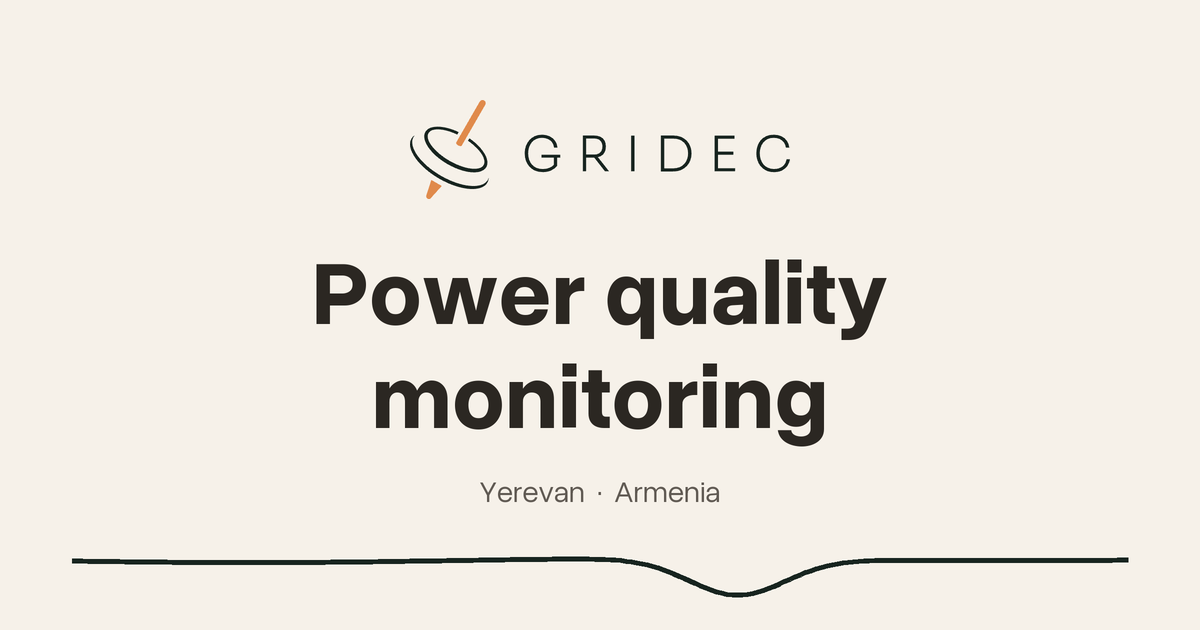
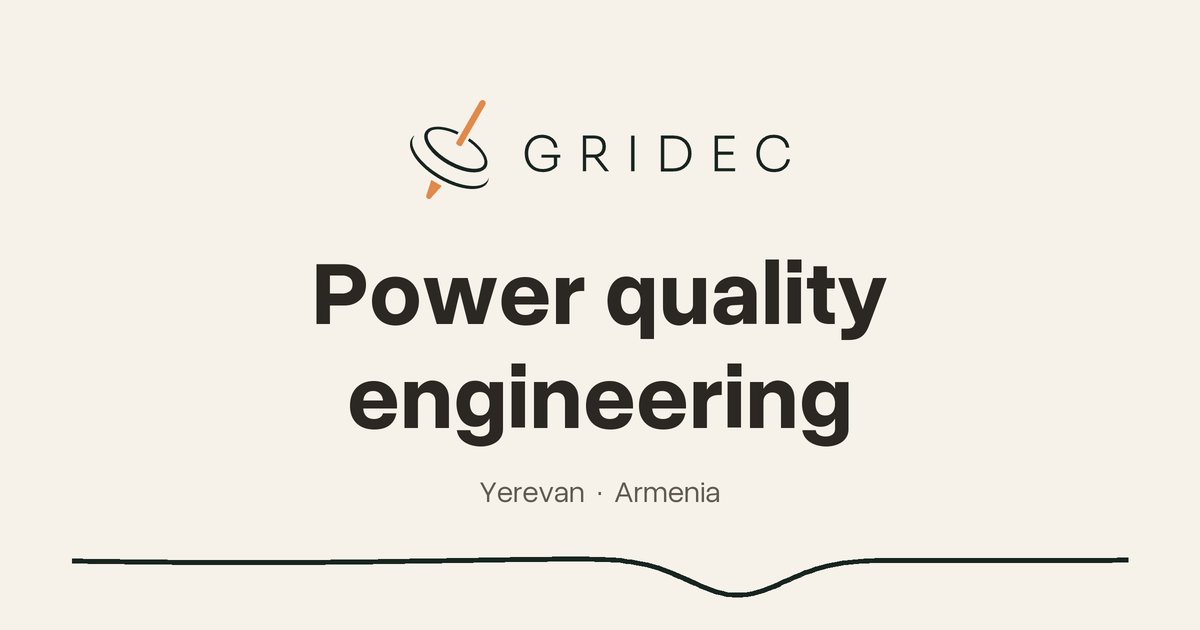
Заголовок вкладки и карточка ссылки: EN «Power Quality Engineering», HY «Էլեկտրաէներգիայի որակի ինժեներական գնահատում»; картинки og-en / og-hy пересобраны, адрес ?v=3
Те же слова владельца, что в Hero (2026-11-26: «исправь и в заголовке и карточке для мессенджеров»).
Описание страницы (description) не менялось. Откат: тег live-before-title.

Changed region(s): [[0.2775, 0.573, 0.7092, 0.7238]]

diff --git a/hy/index.html b/hy/index.html
@@ -12,7 +12,7 @@ html{background:var(--c-paper)}html.wiping{background:var(--c-brand)}html.wiping
 <script>document.documentElement.className+=" js";</script>
 <script>try{if(sessionStorage.getItem("ptwipe")==="1"){var _h=document.documentElement;_h.className+=" wiping";setTimeout(function(){_h.classList.remove("wiping")},2000);}}catch(e){}</script>
 <script>try{var _p=location.pathname;if(_p.slice(-10)==="index.html")history.replaceState(null,"",_p.slice(0,-10)+location.search+location.hash);}catch(e){}</script>
-<title>Gridec | Էլեկտրաէներգիայի որակի մոնիթորինգ</title>
+<title>Gridec | Էլեկտրաէներգիայի որակի ինժեներական գնահատում</title>
 <meta name="description" content="Gridec-ը չափում և գրանցում է էլեկտրական պարամետրերը համակարգի աշխատանքի ընթացքում։ Մենք ուսումնասիրում ենք համակարգը տեղում և վերլուծում ստացված տվյալները։ Չափումներն ու…">
 <meta name="theme-color" content="#17241F">
 <link rel="icon" href="/favicon.ico?v=of4" sizes="48x48">
@@ -20,7 +20,7 @@ html{background:var(--c-paper)}html.wiping{background:var(--c-brand)}html.wiping
 <link rel="icon" href="/favicon.svg?v=of4" type="image/svg+xml">
 <link rel="apple-touch-icon" href="/apple-touch-icon.png?v=of4">
 <meta property="og:type" content="website">
-<meta property="og:title" content="Gridec | Էլեկտրաէներգիայի որակի մոնիթորինգ">
+<meta property="og:title" content="Gridec | Էլեկտրաէներգիայի որակի ինժեներական գնահատում">
 <meta property="og:description" content="Gridec-ը չափում և գրանցում է էլեկտրական պարամետրերը համակարգի աշխատանքի ընթացքում։ Մենք ուսումնասիրում ենք համակարգը տեղում և վերլուծում ստացված տվյալները։ Չափումներն ու…">
 <meta property="og:locale" content="hy_AM">
 <link rel="canonical" href="https://gridec.am/hy/">
@@ -28,11 +28,11 @@ html{background:var(--c-paper)}html.wiping{background:var(--c-brand)}html.wiping
 <link rel="alternate" hreflang="en" href="https://gridec.am/">
 <link rel="alternate" hreflang="hy" href="https://gridec.am/hy/">
 <link rel="alternate" hreflang="x-default" href="https://gridec.am/">
-<meta property="og:image" content="https://gridec.am/brand/og-hy.png?v=2">
+<meta property="og:image" content="https://gridec.am/brand/og-hy.png?v=3">
 <meta property="og:image:width" content="1200">
 <meta property="og:image:height" content="630">
 <meta property="og:image:type" content="image/png">
-<meta property="og:image:alt" content="Gridec — Էլեկտրաէներգիայի որակի մոնիթորինգ">
+<meta property="og:image:alt" content="Gridec — Էլեկտրաէներգիայի որակի ինժեներական գնահատում">
 <meta name="twitter:card" content="summary_large_image">
 <script type="application/ld+json">{"@context":"https://schema.org","@graph":[{"@type":"Organization","@id":"https://gridec.am/#org","name":"Gridec","legalName":"Gridec LLC","url":"https://gridec.am/","logo":"https://gridec.am/apple-touch-icon.png","email":"sales@gridec.am","telephone":"+374 41 00 00 14","taxID":"08331059","address":{"@type":"PostalAddress","streetAddress":"Davtashen 1, 13-25","addressLocality":"Yerevan","postalCode":"0058","addressCountry":"AM"}},{"@type":"WebSite","@id":"https://gridec.am/#site","name":"Gridec","url":"https://gridec.am/","publisher":{"@id":"https://gridec.am/#org"},"inLanguage":["en","hy"]}]}</script>
 <link rel="preload" href="/fonts/departure-mono.woff2" as="font" type="font/woff2" crossorigin>

diff --git a/index.html b/index.html
@@ -12,7 +12,7 @@ html{background:var(--c-paper)}html.wiping{background:var(--c-brand)}html.wiping
 <script>document.documentElement.className+=" js";</script>
 <script>try{if(sessionStorage.getItem("ptwipe")==="1"){var _h=document.documentElement;_h.className+=" wiping";setTimeout(function(){_h.classList.remove("wiping")},2000);}}catch(e){}</script>
 <script>try{var _p=location.pathname;if(_p.slice(-10)==="index.html")history.replaceState(null,"",_p.slice(0,-10)+location.search+location.hash);}catch(e){}</script>
-<title>Gridec | Power Quality Monitoring in Armenia</title>
+<title>Gridec | Power Quality Engineering in Armenia</title>
 <meta name="description" content="Seven-day power quality monitoring in Armenia. We measure under representative load and report the findings.">
 <meta name="theme-color" content="#17241F">
 <link rel="icon" href="/favicon.ico?v=of4" sizes="48x48">
@@ -20,7 +20,7 @@ html{background:var(--c-paper)}html.wiping{background:var(--c-brand)}html.wiping
 <link rel="icon" href="/favicon.svg?v=of4" type="image/svg+xml">
 <link rel="apple-touch-icon" href="/apple-touch-icon.png?v=of4">
 <meta property="og:type" content="website">
-<meta property="og:title" content="Gridec | Power Quality Monitoring in Armenia">
+<meta property="og:title" content="Gridec | Power Quality Engineering in Armenia">
 <meta property="og:description" content="Seven-day power quality monitoring in Armenia. We measure under representative load and report the findings.">
 <meta property="og:locale" content="en_US">
 <script>try{var _n=performance.getEntriesByType("navigation")[0];if(location.pathname==="/"&&!/[?&]lang=en/.test(location.search)&&(!_n||_n.type==="navigate")&&document.referrer.indexOf(location.origin+"/")!==0&&Intl.DateTimeFormat().resolvedOptions().timeZone==="Asia/Yerevan")location.replace("/hy/"+location.search+location.hash);}catch(e){}</script>
@@ -29,11 +29,11 @@ html{background:var(--c-paper)}html.wiping{background:var(--c-brand)}html.wiping
 <link rel="alternate" hreflang="en" href="https://gridec.am/">
 <link rel="alternate" hreflang="hy" href="https://gridec.am/hy/">
 <link rel="alternate" hreflang="x-default" href="https://gridec.am/">
-<meta property="og:image" content="https://gridec.am/brand/og-en.png?v=2">
+<meta property="og:image" content="https://gridec.am/brand/og-en.png?v=3">
 <meta property="og:image:width" content="1200">
 <meta property="og:image:height" content="630">
 <meta property="og:image:type" content="image/png">
-<meta property="og:image:alt" content="Gridec — power quality monitoring in Armenia">
+<meta property="og:image:alt" content="Gridec — power quality engineering in Armenia">
 <meta name="twitter:card" content="summary_large_image">
 <script type="application/ld+json">{"@context":"https://schema.org","@graph":[{"@type":"Organization","@id":"https://gridec.am/#org","name":"Gridec","legalName":"Gridec LLC","url":"https://gridec.am/","logo":"https://gridec.am/apple-touch-icon.png","email":"sales@gridec.am","telephone":"+374 41 00 00 14","taxID":"08331059","address":{"@type":"PostalAddress","streetAddress":"Davtashen 1, 13-25","addressLocality":"Yerevan","postalCode":"0058","addressCountry":"AM"}},{"@type":"WebSite","@id":"https://gridec.am/#site","name":"Gridec","url":"https://gridec.am/","publisher":{"@id":"https://gridec.am/#org"},"inLanguage":["en","hy"]}]}</script>
 <link rel="preload" href="/fonts/departure-mono.woff2" as="font" type="font/woff2" crossorigin>

diff --git a/hy/partners/index.html b/hy/partners/index.html
@@ -28,11 +28,11 @@ html{background:var(--c-paper)}html.wiping{background:var(--c-brand)}html.wiping
 <link rel="alternate" hreflang="en" href="https://gridec.am/partners/">
 <link rel="alternate" hreflang="hy" href="https://gridec.am/hy/partners/">
 <link rel="alternate" hreflang="x-default" href="https://gridec.am/partners/">
-<meta property="og:image" content="https://gridec.am/brand/og-hy.png?v=2">
+<meta property="og:image" content="https://gridec.am/brand/og-hy.png?v=3">
 <meta property="og:image:width" content="1200">
 <meta property="og:image:height" content="630">
 <meta property="og:image:type" content="image/png">
-<meta property="og:image:alt" content="Gridec — Էլեկտրաէներգիայի որակի մոնիթորինգ">
+<meta property="og:image:alt" content="Gridec — Էլեկտրաէներգիայի որակի ինժեներական գնահատում">
 <meta name="twitter:card" content="summary_large_image">
 <script type="application/ld+json">{"@context":"https://schema.org","@graph":[{"@type":"Organization","@id":"https://gridec.am/#org","name":"Gridec","legalName":"Gridec LLC","url":"https://gridec.am/","logo":"https://gridec.am/apple-touch-icon.png","email":"sales@gridec.am","telephone":"+374 41 00 00 14","taxID":"08331059","address":{"@type":"PostalAddress","streetAddress":"Davtashen 1, 13-25","addressLocality":"Yerevan","postalCode":"0058","addressCountry":"AM"}},{"@type":"WebSite","@id":"https://gridec.am/#site","name":"Gridec","url":"https://gridec.am/","publisher":{"@id":"https://gridec.am/#org"},"inLanguage":["en","hy"]}]}</script>
 <link rel="preload" href="/fonts/departure-mono.woff2" as="font" type="font/woff2" crossorigin>

diff --git a/partners/index.html b/partners/index.html
@@ -29,11 +29,11 @@ html{background:var(--c-paper)}html.wiping{background:var(--c-brand)}html.wiping
 <link rel="alternate" hreflang="en" href="https://gridec.am/partners/">
 <link rel="alternate" hreflang="hy" href="https://gridec.am/hy/partners/">
 <link rel="alternate" hreflang="x-default" href="https://gridec.am/partners/">
-<meta property="og:image" content="https://gridec.am/brand/og-en.png?v=2">
+<meta property="og:image" content="https://gridec.am/brand/og-en.png?v=3">
 <meta property="og:image:width" content="1200">
 <meta property="og:image:height" content="630">
 <meta property="og:image:type" content="image/png">
-<meta property="og:image:alt" content="Gridec — power quality monitoring in Armenia">
+<meta property="og:image:alt" content="Gridec — power quality engineering in Armenia">
 <meta name="twitter:card" content="summary_large_image">
 <script type="application/ld+json">{"@context":"https://schema.org","@graph":[{"@type":"Organization","@id":"https://gridec.am/#org","name":"Gridec","legalName":"Gridec LLC","url":"https://gridec.am/","logo":"https://gridec.am/apple-touch-icon.png","email":"sales@gridec.am","telephone":"+374 41 00 00 14","taxID":"08331059","address":{"@type":"PostalAddress","streetAddress":"Davtashen 1, 13-25","addressLocality":"Yerevan","postalCode":"0058","addressCountry":"AM"}},{"@type":"WebSite","@id":"https://gridec.am/#site","name":"Gridec","url":"https://gridec.am/","publisher":{"@id":"https://gridec.am/#org"},"inLanguage":["en","hy"]}]}</script>
 <link rel="preload" href="/fonts/departure-mono.woff2" as="font" type="font/woff2" crossorigin>
